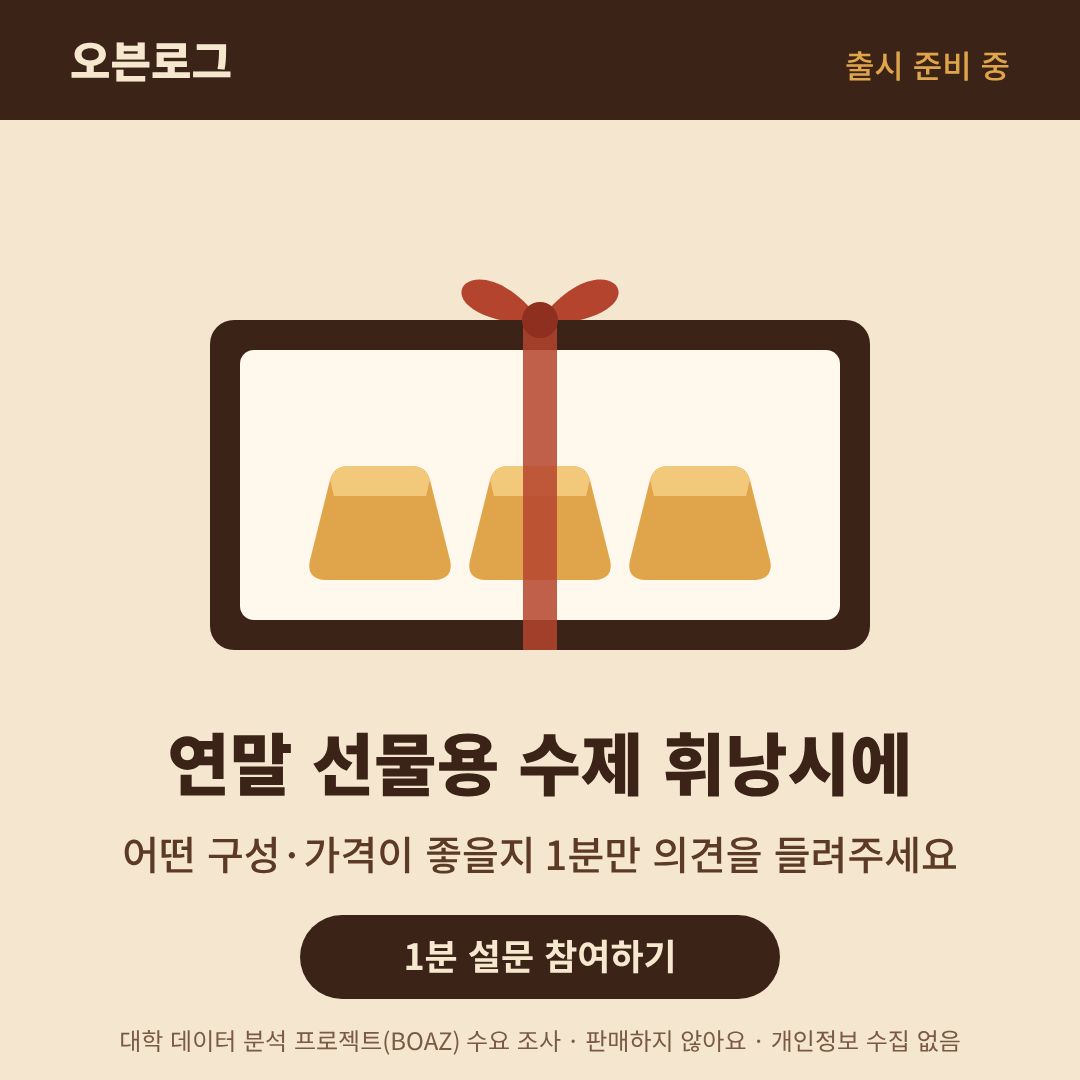
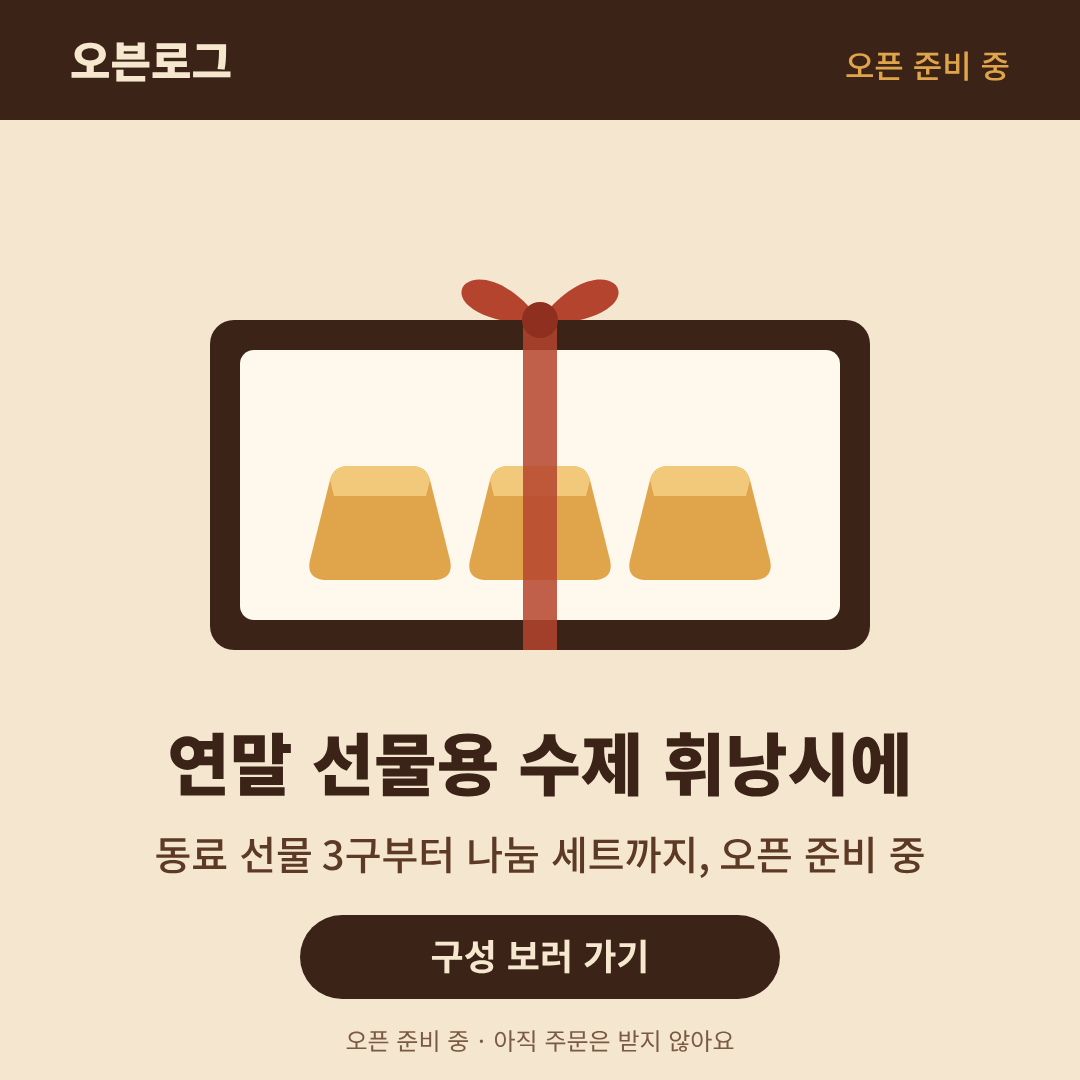
Turn landing page into pre-open product page (no survey)
Claude-Session: https://claude.ai/code/session_01UXbj2JXKRhNyKgaj1an1NS

diff --git a/index.html b/index.html
@@ -3,10 +3,10 @@
 <head>
 <meta charset="utf-8">
 <meta name="viewport" content="width=device-width, initial-scale=1">
-<title>오븐로그 | 연말 휘낭시에 선물세트 (출시 준비 중)</title>
-<meta name="description" content="수제 휘낭시에 선물세트를 준비하고 있어요. 어떤 구성과 가격이 좋을지 1분 설문으로 의견을 들려주세요. 대학 데이터 분석 프로젝트 수요 조사이며 판매하지 않습니다.">
-<meta property="og:title" content="오븐로그 휘낭시에 선물세트, 1분 의견 조사">
-<meta property="og:description" content="출시 준비 중 · 대학 프로젝트 수요 조사 · 판매하지 않아요 · 개인정보 수집 없음">
+<title>오븐로그 | 연말 선물용 수제 휘낭시에 세트</title>
+<meta name="description" content="동료 선물 3구부터 팀 나눔 세트까지, 오븐로그 수제 휘낭시에 선물세트. 오픈 준비 중입니다.">
+<meta property="og:title" content="오븐로그 | 연말 선물용 수제 휘낭시에 세트">
+<meta property="og:description" content="동료 선물 3구부터 팀 나눔 세트까지 · 오픈 준비 중">
 <meta property="og:image" content="giftset.png">
 <meta property="og:type" content="website">
 <link rel="icon" href="logo.png">
@@ -14,10 +14,14 @@
 <link rel="preconnect" href="https://fonts.gstatic.com" crossorigin>
 <link href="https://fonts.googleapis.com/css2?family=Noto+Sans+KR:wght@400;500;700;900&display=swap" rel="stylesheet">
 <!--
-  [측정 설정 · 선택]
-  메타 픽셀을 달면 광고 관리자에서 '랜딩 페이지 조회'와 '설문 버튼 클릭'을 볼 수 있어요.
-  이벤트 관리자에서 데이터 세트(픽셀) ID를 만든 뒤 아래 PIXEL_ID 값만 바꾸면 켜집니다.
-  비워 두면 아무것도 불러오지 않아요.
+  [측정 설정]
+  메타 이벤트 관리자에서 데이터 세트(픽셀) ID를 만든 뒤 아래 값만 바꾸면 켜져요.
+  기록되는 이벤트:
+    PageView          페이지 도착 (광고 관리자의 '랜딩 페이지 조회')
+    ViewContent       '구성 보러 가기' 클릭
+    CustomizeProduct  세트별 '이 구성이 좋아요' 클릭 (content_name = 세트 이름)
+    Lead              '오픈하면 알려 주세요' 클릭 (연락처는 받지 않음)
+  광고 링크 뒤에 ?utm_content=A 처럼 붙이면 어느 광고에서 왔는지도 함께 남아요.
 -->
 <script>
   window.OVENLOG_PIXEL_ID = "";   // 예: "123456789012345"
@@ -25,117 +29,157 @@
 <style>
   :root{
     --bg:#F4E6CF; --paper:#FFF8EC; --ink:#3B2417; --ink-2:#5C3A26; --muted:#7A5A44;
-    --accent:#E0A54B; --ribbon:#B5442E; --line:#E3CFAE;
+    --accent:#E0A54B; --ribbon:#B5442E; --line:#E3CFAE; --on-ink:#FFF8EC;
   }
   @media (prefers-color-scheme: dark){
     :root:not([data-theme="light"]){
       --bg:#1E1510; --paper:#2A1E17; --ink:#F6E7CF; --ink-2:#E9D3B4; --muted:#BFA285;
-      --accent:#E0A54B; --ribbon:#D0644B; --line:#4A3628;
+      --accent:#E0A54B; --ribbon:#D0644B; --line:#4A3628; --on-ink:#1E1510;
     }
   }
   :root[data-theme="dark"]{
     --bg:#1E1510; --paper:#2A1E17; --ink:#F6E7CF; --ink-2:#E9D3B4; --muted:#BFA285;
-    --accent:#E0A54B; --ribbon:#D0644B; --line:#4A3628;
+    --accent:#E0A54B; --ribbon:#D0644B; --line:#4A3628; --on-ink:#1E1510;
   }
   *{box-sizing:border-box}
   html,body{margin:0}
+  html{scroll-behavior:smooth}
   body{background:var(--bg);color:var(--ink);font-family:'Noto Sans KR','Apple SD Gothic Neo','Malgun Gothic',sans-serif;line-height:1.65;-webkit-font-smoothing:antialiased}
   a{color:inherit}
   .wrap{max-width:720px;margin:0 auto;padding:0 16px}
-  header{position:sticky;top:0;z-index:5;background:color-mix(in srgb,var(--bg) 88%,transparent);backdrop-filter:blur(8px);border-bottom:1px solid var(--line)}
+  header{position:sticky;top:0;z-index:5;background:color-mix(in srgb,var(--bg) 90%,transparent);backdrop-filter:blur(8px);border-bottom:1px solid var(--line)}
   header .wrap{display:flex;align-items:center;justify-content:space-between;height:60px}
   .brand{display:flex;align-items:center;gap:10px;font-weight:900;font-size:20px;letter-spacing:-.02em;text-decoration:none}
   .brand img{width:34px;height:34px;border-radius:50%}
-  .tag{font-size:13px;font-weight:700;color:var(--ink);background:var(--accent);padding:4px 10px;border-radius:999px}
+  .tag{font-size:13px;font-weight:700;color:#3B2417;background:var(--accent);padding:4px 10px;border-radius:999px}
   .hero{padding:36px 0 8px}
   .hero h1{font-size:clamp(28px,6vw,40px);line-height:1.25;margin:0 0 12px;letter-spacing:-.03em;font-weight:900}
   .hero p{margin:0 0 20px;color:var(--ink-2);font-size:17px}
   .hero img{display:block;width:100%;height:auto;border-radius:18px;border:1px solid var(--line);background:var(--paper)}
-  .cta{display:block;text-align:center;text-decoration:none;background:var(--ink);color:var(--paper);font-weight:700;font-size:18px;padding:16px 20px;border-radius:999px;margin:22px 0 8px;transition:transform .15s ease}
-  .cta:hover{transform:translateY(-1px)}
-  .cta-note{text-align:center;color:var(--muted);font-size:13px;margin:0}
-  section{padding:32px 0;border-top:1px solid var(--line)}
-  section:first-of-type{border-top:0}
-  h2{font-size:22px;margin:0 0 14px;letter-spacing:-.02em}
+  .btn{display:block;width:100%;text-align:center;text-decoration:none;border:0;cursor:pointer;font:inherit;font-weight:700;font-size:18px;padding:16px 20px;border-radius:999px;transition:transform .15s ease,background .15s ease}
+  .btn:hover{transform:translateY(-1px)}
+  .btn-main{background:var(--ink);color:var(--on-ink);margin:22px 0 8px}
+  .btn-sub{background:transparent;color:var(--ink);border:1.5px solid var(--ink);font-size:15px;padding:10px 14px;margin-top:12px}
+  .btn-sub[aria-pressed="true"]{background:var(--accent);border-color:var(--accent);color:#3B2417}
+  .note{text-align:center;color:var(--muted);font-size:13px;margin:0}
+  section{padding:32px 0;border-top:1px solid var(--line);scroll-margin-top:64px}
+  h2{font-size:22px;margin:0 0 6px;letter-spacing:-.02em}
+  .lead{color:var(--muted);font-size:14px;margin:0 0 16px}
   .cards{display:grid;grid-template-columns:repeat(auto-fit,minmax(200px,1fr));gap:12px}
-  .card{background:var(--paper);border:1px solid var(--line);border-radius:14px;padding:16px}
-  .card b{display:block;font-size:17px;margin-bottom:4px}
-  .card span{color:var(--muted);font-size:14px}
-  ol.steps{margin:0;padding-left:20px}
-  ol.steps li{margin:6px 0}
-  .notice{background:var(--paper);border:1px dashed var(--ribbon);border-radius:14px;padding:16px 18px;font-size:15px}
-  .notice ul{margin:6px 0 0;padding-left:18px}
+  .card{background:var(--paper);border:1px solid var(--line);border-radius:16px;padding:18px;display:flex;flex-direction:column}
+  .card .name{font-size:18px;font-weight:900;margin:0}
+  .card .desc{color:var(--ink-2);font-size:14px;margin:4px 0 12px;flex:1}
+  .card .price{font-size:22px;font-weight:900;margin:0}
+  .card .price small{font-size:12px;font-weight:500;color:var(--muted);margin-left:6px}
+  .card .badge{align-self:flex-start;font-size:12px;font-weight:700;background:var(--ribbon);color:#fff;padding:2px 8px;border-radius:999px;margin-bottom:8px}
+  .points{display:grid;grid-template-columns:repeat(auto-fit,minmax(200px,1fr));gap:12px;margin:0;padding:0;list-style:none}
+  .points li{background:var(--paper);border:1px solid var(--line);border-radius:14px;padding:14px 16px}
+  .points b{display:block;margin-bottom:2px}
+  .points span{color:var(--muted);font-size:14px}
+  .open{background:var(--paper);border:1px solid var(--line);border-radius:18px;padding:22px 18px;text-align:center}
+  .open h2{margin-bottom:6px}
+  .thanks{display:none;margin:14px 0 0;font-weight:700;color:var(--ribbon)}
+  .thanks.show{display:block}
   footer{padding:28px 0 40px;color:var(--muted);font-size:13px;border-top:1px solid var(--line)}
-  @media (max-width:420px){.hero p{font-size:16px}.cta{font-size:17px}}
 </style>
 </head>
 <body>
 <header>
   <div class="wrap">
     <a class="brand" href="#top"><img src="logo.png" alt="">오븐로그</a>
-    <span class="tag">출시 준비 중</span>
+    <span class="tag">오픈 준비 중</span>
   </div>
 </header>
 
 <main class="wrap" id="top">
   <div class="hero">
-    <h1>연말 선물용<br>수제 휘낭시에 세트를<br>준비하고 있어요</h1>
-    <p>동료·지인에게 건네기 좋은 작은 선물세트를 만들려고 해요. 어떤 구성과 가격이 좋을지, 1분만 의견을 들려주세요.</p>
-    <img src="giftset.png" width="1080" height="1080" alt="리본을 두른 선물 상자 안에 휘낭시에 세 개가 담긴 오븐로그 선물세트 이미지">
-    <a class="cta" id="cta-top" href="https://docs.google.com/forms/d/e/1FAIpQLSdcf1Zt6d9OxtHfWMwlaCqIvVL2zeOVNd5XU9yH-TQfROkN9Q/viewform" target="_blank" rel="noopener">1분 설문 참여하기</a>
-    <p class="cta-note">질문 6개 · 로그인·이메일 없이 응답 · 개인정보를 받지 않아요</p>
+    <h1>연말에 건네기 좋은<br>수제 휘낭시에 선물세트</h1>
+    <p>버터 향 가득한 휘낭시에를 하나씩 구워 리본 상자에 담았어요. 동료에게 가볍게 건네는 3구부터 팀 전체에 나누는 세트까지 준비하고 있어요.</p>
+    <img src="giftset.png" width="1080" height="1080" alt="리본을 두른 선물 상자 안에 휘낭시에 세 개가 담긴 오븐로그 선물세트 그림">
+    <a class="btn btn-main" id="cta-view" href="#sets">구성 보러 가기</a>
+    <p class="note">오픈 준비 중이라 아직 주문·결제는 받지 않아요</p>
   </div>
 
-  <section>
-    <h2>고민 중인 구성</h2>
+  <section id="sets">
+    <h2>선물세트 구성</h2>
+    <p class="lead">마음에 드는 구성에 '이 구성이 좋아요'를 눌러 주세요. 가장 많이 고른 구성부터 먼저 준비해요.</p>
     <div class="cards">
-      <div class="card"><b>작은 선물</b><span>휘낭시에 3구. 동료에게 가볍게 건네는 용도</span></div>
-      <div class="card"><b>기본 선물</b><span>휘낭시에 6구. 맛 2~3가지를 섞어서</span></div>
-      <div class="card"><b>나눔용</b><span>개별 포장 여러 개. 팀·모임에 나눠 주는 용도</span></div>
+      <div class="card">
+        <p class="name">작은 선물 3구</p>
+        <p class="desc">플레인 · 얼그레이 · 초코. 동료나 친구에게 가볍게.</p>
+        <p class="price">9,900원<small>예정가</small></p>
+        <button class="btn btn-sub" data-set="3구" aria-pressed="false">이 구성이 좋아요</button>
+      </div>
+      <div class="card">
+        <span class="badge">가장 무난해요</span>
+        <p class="name">기본 선물 6구</p>
+        <p class="desc">세 가지 맛 2개씩. 연말 인사 선물로.</p>
+        <p class="price">18,900원<small>예정가</small></p>
+        <button class="btn btn-sub" data-set="6구" aria-pressed="false">이 구성이 좋아요</button>
+      </div>
+      <div class="card">
+        <p class="name">나눔 세트 10개</p>
+        <p class="desc">개별 포장 10개. 팀·모임에 하나씩 나눠 주기 좋게.</p>
+        <p class="price">29,000원<small>예정가</small></p>
+        <button class="btn btn-sub" data-set="나눔10" aria-pressed="false">이 구성이 좋아요</button>
+      </div>
     </div>
-    <p style="color:var(--muted);font-size:14px;margin:12px 0 0">아직 정해진 건 없어요. 설문에서 어떤 용도·가격대·구매처가 좋은지 알려 주시면 그걸 바탕으로 정해요.</p>
   </section>
 
   <section>
-    <h2>설문은 이렇게 쓰여요</h2>
-    <ol class="steps">
-      <li>선물 용도와 원하는 가격대를 모아서 세트 구성을 정해요.</li>
-      <li>어디서 사고 싶은지(인스타, 네이버, 카카오 선물하기 등)를 보고 판매 채널을 정해요.</li>
-      <li>광고를 몇 번 보면 눌러 보게 되는지에 대한 답은 광고 계획을 세우는 데 써요.</li>
-    </ol>
+    <h2>오븐로그 휘낭시에는</h2>
+    <p class="lead">작은 오븐에서 매일 조금씩 굽는 구움과자예요.</p>
+    <ul class="points">
+      <li><b>태운 버터로 고소하게</b><span>버터를 갈색이 될 때까지 끓여 향을 냈어요.</span></li>
+      <li><b>하나씩 개별 포장</b><span>나눠 주기 편하고 오래 두고 먹기 좋아요.</span></li>
+      <li><b>리본 상자 기본</b><span>따로 포장할 필요 없이 바로 선물할 수 있어요.</span></li>
+    </ul>
   </section>
 
   <section>
-    <div class="notice">
-      <b>알려 드려요</b>
-      <ul>
-        <li>오븐로그는 대학 데이터 분석 프로젝트(BOAZ)에서 만든 가상의 디저트 브랜드예요.</li>
-        <li>지금은 <b>판매하지 않아요.</b> 결제·주문·배송이 없어요.</li>
-        <li>설문은 응답 내용만 익명으로 모으고, 이름·연락처·이메일은 받지 않아요.</li>
-      </ul>
+    <div class="open">
+      <h2>아직 오픈 전이에요</h2>
+      <p class="lead" style="margin:0">지금은 주문을 받지 않아요. 오픈을 기다려 주실 분은 아래 버튼을 눌러 주세요. 연락처는 받지 않고, 몇 분이 기다리는지만 세요.</p>
+      <button class="btn btn-main" id="cta-notify" style="margin-top:16px">오픈하면 알려 주세요</button>
+      <p class="thanks" id="thanks" role="status">고마워요! 오픈 소식은 이 페이지와 광고로 알려 드릴게요.</p>
     </div>
-    <a class="cta" id="cta-bottom" href="https://docs.google.com/forms/d/e/1FAIpQLSdcf1Zt6d9OxtHfWMwlaCqIvVL2zeOVNd5XU9yH-TQfROkN9Q/viewform" target="_blank" rel="noopener">의견 남기러 가기</a>
   </section>
 </main>
 
 <footer>
-  <div class="wrap">오븐로그 · 대학 데이터 분석 프로젝트용 페이지 · 판매하지 않음 · 개인정보 수집 없음</div>
+  <div class="wrap">오븐로그 · 수제 휘낭시에 선물세트 · 오픈 준비 중(현재 주문·결제 없음)</div>
 </footer>
 
 <script>
-  // 메타 픽셀: PIXEL_ID가 있을 때만 불러와요. 페이지 조회(PageView)와 설문 버튼 클릭(Lead)을 기록해요.
   (function(){
     var id = window.OVENLOG_PIXEL_ID;
-    if(!id) return;
-    !function(f,b,e,v,n,t,s){if(f.fbq)return;n=f.fbq=function(){n.callMethod?
-    n.callMethod.apply(n,arguments):n.queue.push(arguments)};if(!f._fbq)f._fbq=n;
-    n.push=n;n.loaded=!0;n.version='2.0';n.queue=[];t=b.createElement(e);t.async=!0;
-    t.src=v;s=b.getElementsByTagName(e)[0];s.parentNode.insertBefore(t,s)}(window,
-    document,'script','https://connect.facebook.net/en_US/fbevents.js');
-    fbq('init', id); fbq('track', 'PageView');
-    ['cta-top','cta-bottom'].forEach(function(k){
-      var el=document.getElementById(k);
-      if(el) el.addEventListener('click',function(){ try{ fbq('track','Lead',{content_name:k}); }catch(e){} });
+    var params = new URLSearchParams(location.search);
+    var src = params.get('utm_content') || '';
+    function track(ev, data){
+      if(!window.fbq) return;
+      try{ fbq('track', ev, Object.assign({ad_variant: src}, data||{})); }catch(e){}
+    }
+    if(id){
+      !function(f,b,e,v,n,t,s){if(f.fbq)return;n=f.fbq=function(){n.callMethod?
+      n.callMethod.apply(n,arguments):n.queue.push(arguments)};if(!f._fbq)f._fbq=n;
+      n.push=n;n.loaded=!0;n.version='2.0';n.queue=[];t=b.createElement(e);t.async=!0;
+      t.src=v;s=b.getElementsByTagName(e)[0];s.parentNode.insertBefore(t,s)}(window,
+      document,'script','https://connect.facebook.net/en_US/fbevents.js');
+      fbq('init', id); fbq('track', 'PageView');
+    }
+    document.getElementById('cta-view').addEventListener('click', function(){ track('ViewContent', {content_name:'구성 보러 가기'}); });
+    document.querySelectorAll('[data-set]').forEach(function(b){
+      b.addEventListener('click', function(){
+        var on = b.getAttribute('aria-pressed') !== 'true';
+        b.setAttribute('aria-pressed', on ? 'true' : 'false');
+        b.textContent = on ? '골랐어요 ✓' : '이 구성이 좋아요';
+        if(on) track('CustomizeProduct', {content_name: b.dataset.set});
+      });
+    });
+    var sent = false;
+    document.getElementById('cta-notify').addEventListener('click', function(){
+      document.getElementById('thanks').classList.add('show');
+      if(!sent){ sent = true; track('Lead', {content_name:'오픈 알림'}); }
     });
   })();
 </script>

diff --git a/README.md b/README.md
@@ -2,8 +2,8 @@
 
 BOAZ 2차 프로젝트(소상공인 광고 코치) 메타 광고 실험용 랜딩 페이지입니다.
 
-- 오븐로그는 대학 데이터 분석 프로젝트에서 만든 **가상의 디저트 브랜드**이며 판매하지 않습니다.
-- 설문(구글 폼)은 개인정보를 수집하지 않습니다.
+- 오븐로그는 오픈 준비 중인 수제 휘낭시에 브랜드입니다. 현재 주문·결제는 받지 않습니다.
+- 페이지는 연락처 등 개인정보를 받지 않고, 버튼 클릭 수만 메타 픽셀로 셉니다.
 - 메타 픽셀을 켜려면 `index.html`의 `OVENLOG_PIXEL_ID`에 데이터 세트 ID를 넣으세요.
 
 주소: https://dajeong0403.github.io/ovenlog/
